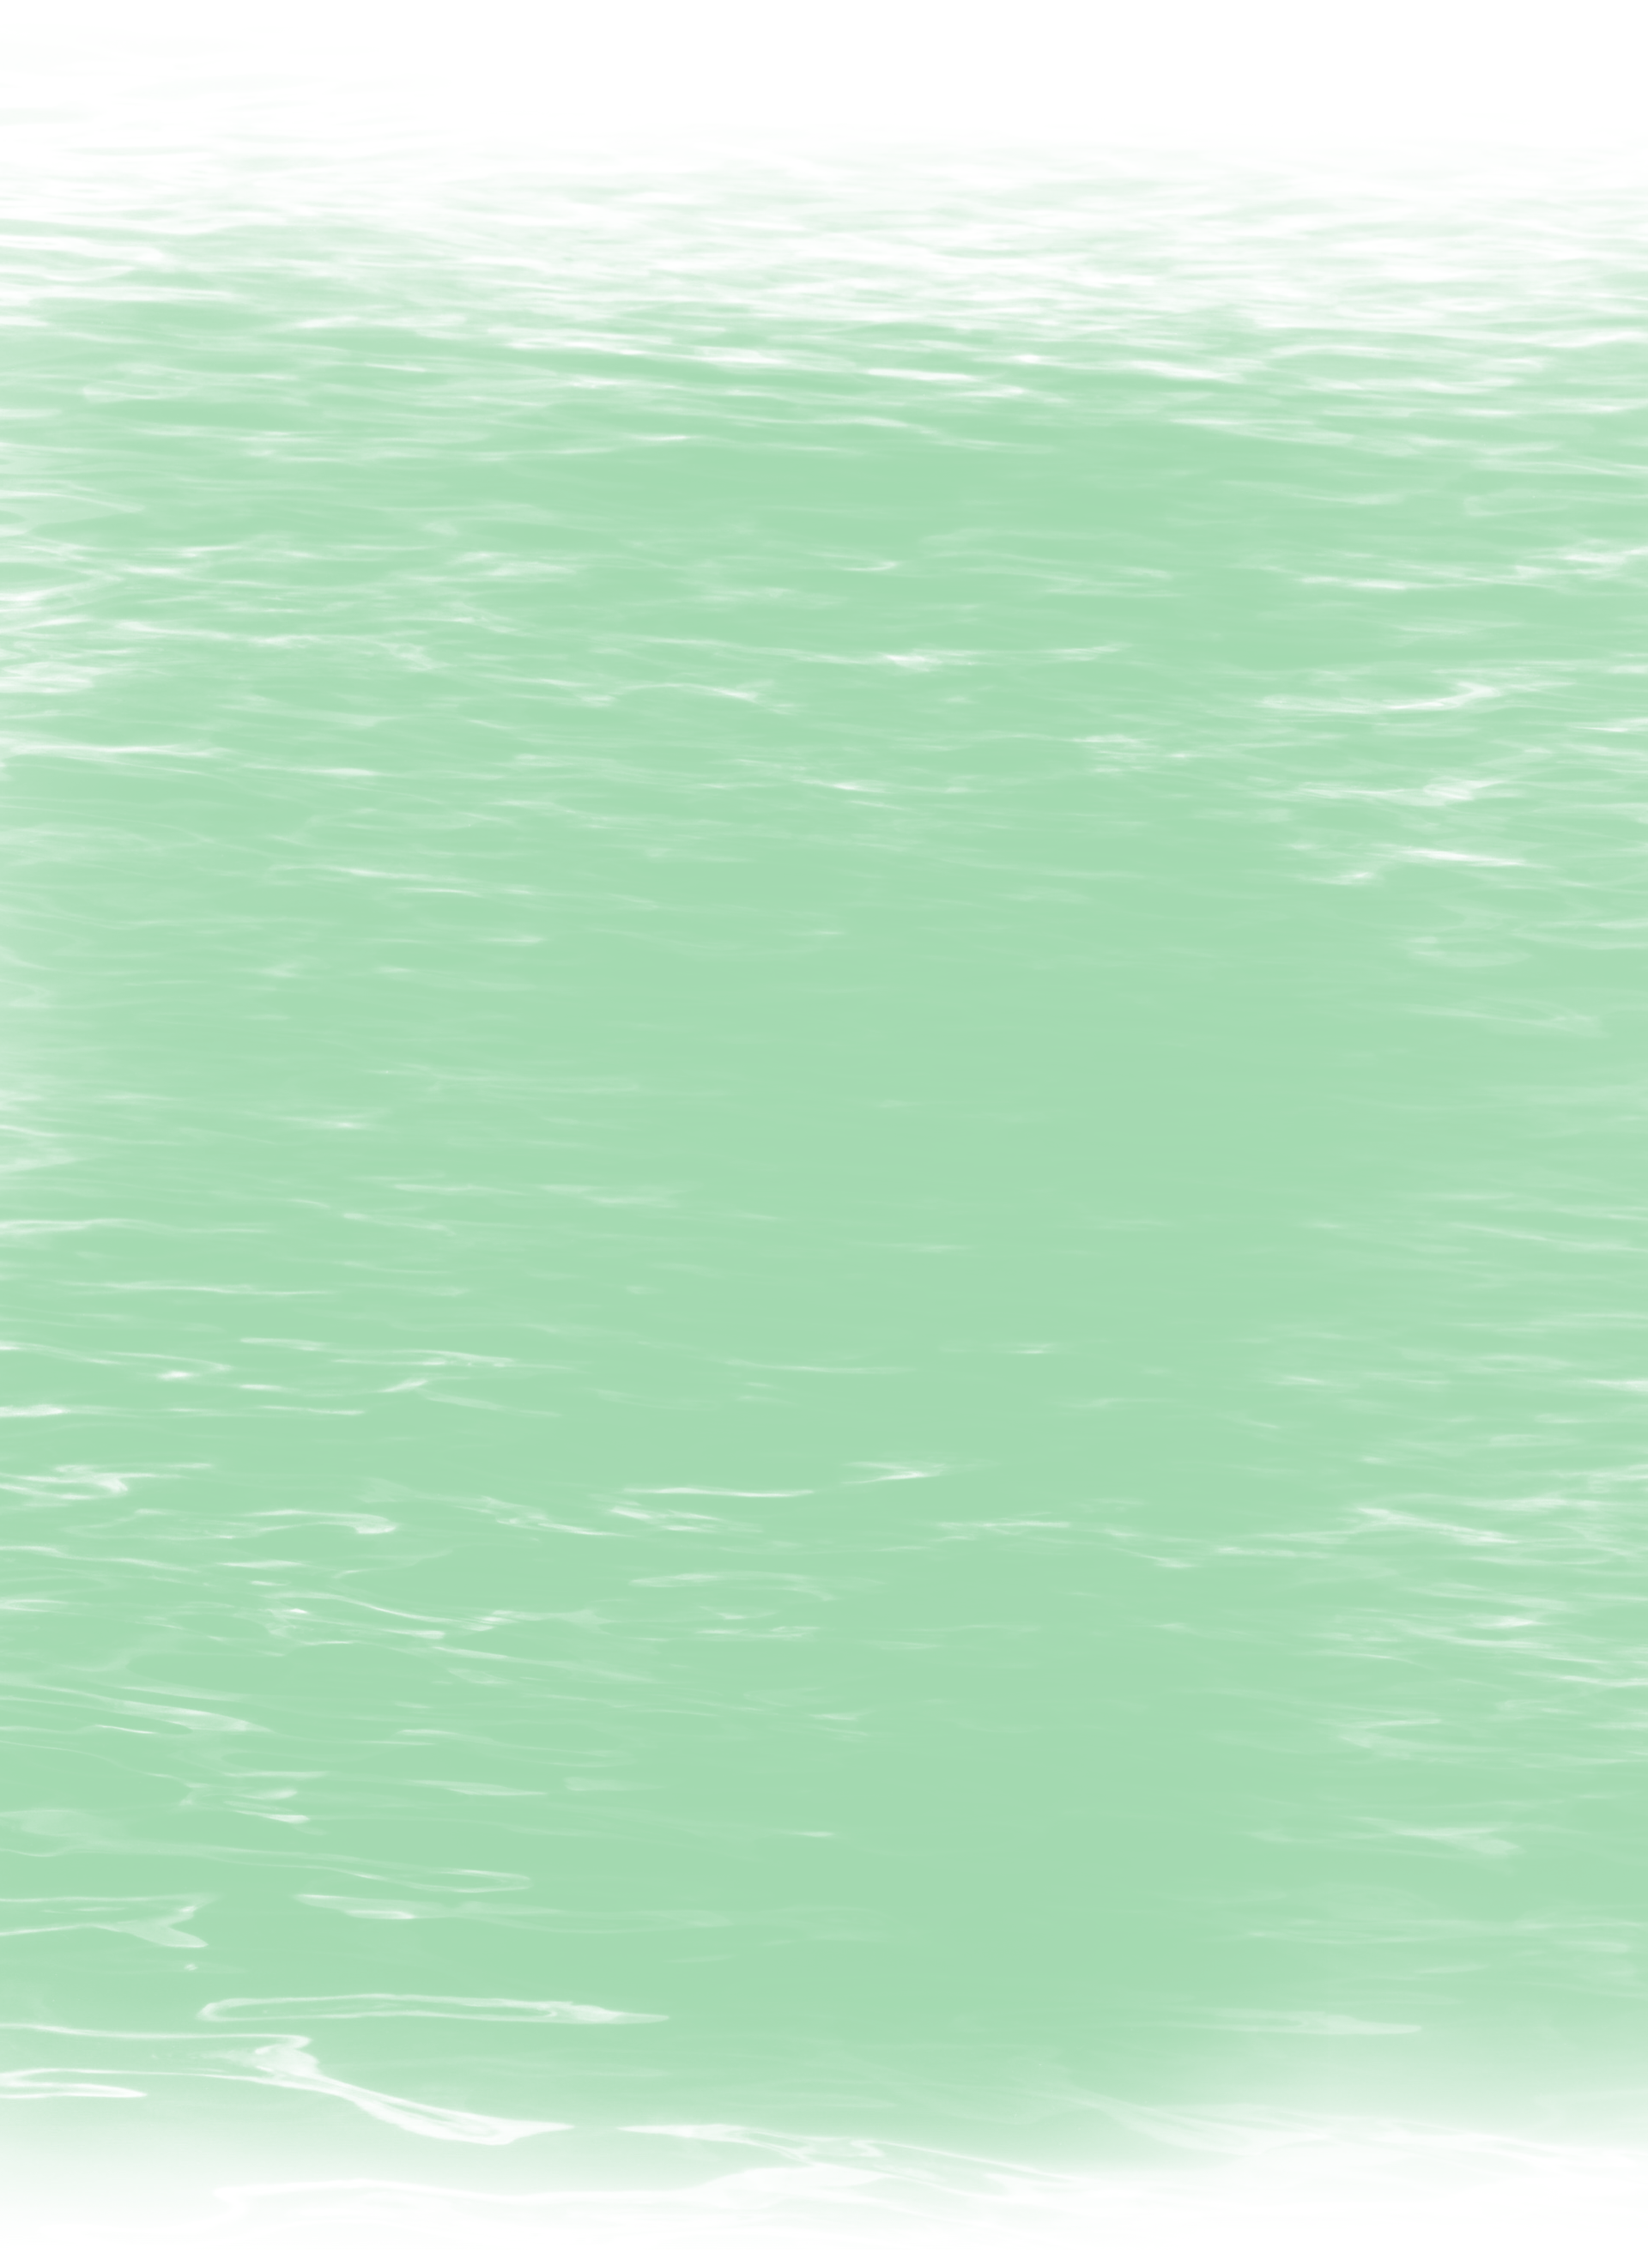
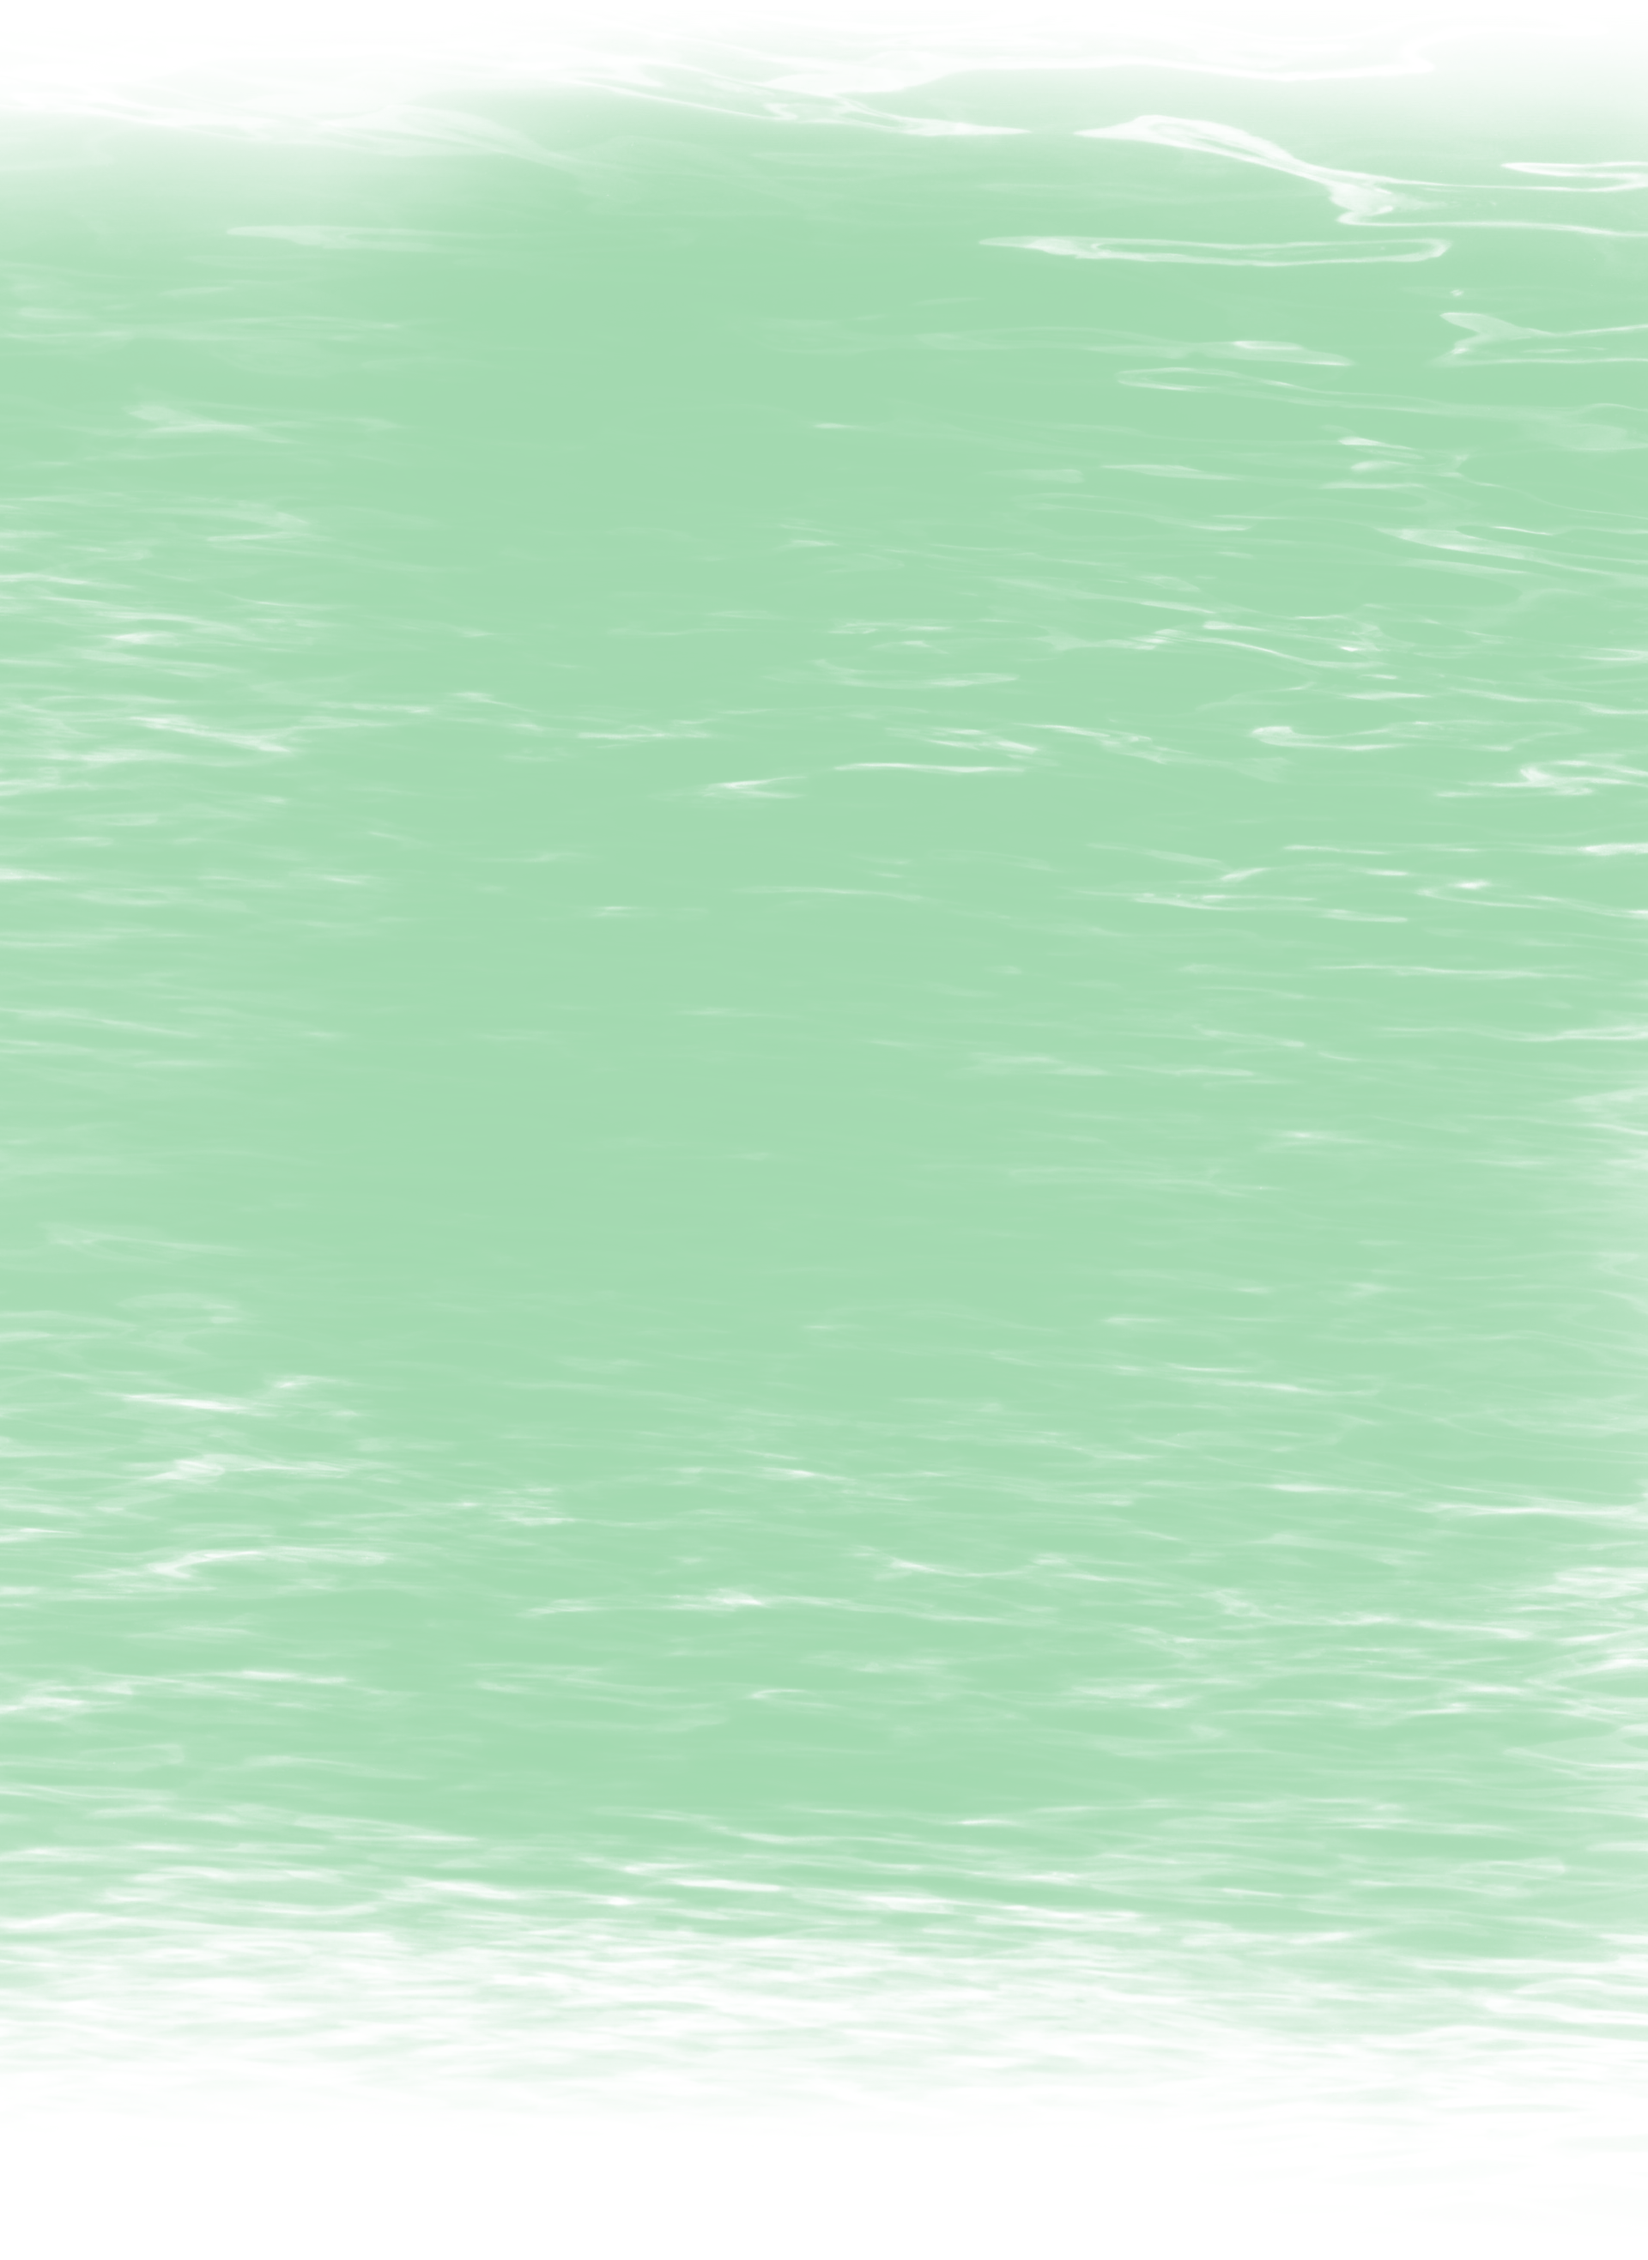
sunrah

diff --git a/Combo/examples/secondsite.html b/Combo/examples/secondsite.html
@@ -13,7 +13,8 @@
 	<link rel="stylesheet" type="text/css" href="../jquery.fullPage.css" />
 	<link rel="stylesheet" type="text/css" href="examples.css" />
 	<link rel="stylesheet" type="text/css" href="mystyle.css" />
-	<link rel='stylesheet' media='screen and (min-width: 201px) and (max-width: 640px)' href='small.css' />
+	<link rel="stylesheet" media="screen and (min-width: 201px) and (max-width: 640px)" href='small.css' />
+	<link rel="stylesheet" media="screen and (min-device-width: 201px) and (max-device-width: 640px)" href='small.css' />
 	<link rel="stylesheet" media="screen and (orientation: landscape) and (max-height: 400px) and (max-device-height: 400px) " href="horizon.css" />
 	<link rel="stylesheet" media="screen and (min-device-width:201px) and (max-device-width: 800px) and (orientation: landscape)" href="horizon.css" />
 	

diff --git a/Combo/examples/horizon.css b/Combo/examples/horizon.css
@@ -19,14 +19,6 @@ padding-top: 11em;
 display:inline;
 }
 
-#weare {
-font-family: 'Raleway', sans-serif;
-color: #bf4b31;
-width: 97%;
-margin-left: 1.5%;
-font-size:0.8em!important;
-margin-top: -14px;
-}
 
 
 div#icoline {
@@ -62,4 +54,27 @@ width: 25%;
 div#launchico {
 width: 25%;
 
+}
+
+h1.maintit {
+font-family: 'Geostar', cursive !important;
+font-size: 4em;
+color: #bf4b31;
+overflow: hidden;
+}
+
+.maindes {
+width: 44%;
+float: right;
+padding-right: 8%;
+padding-top: 0;
+}
+
+#weare {
+font-family: 'Raleway', sans-serif;
+color: #bf4b31;
+width: 97%;
+margin-left: 1.5%;
+font-size: 0.5em!important;
+margin-top: -14px;
 }

diff --git a/Combo/examples/mystyle.css b/Combo/examples/mystyle.css
@@ -157,13 +157,14 @@ background-size: contain;
 .watery {
 background-image: url('imgs/waterbottom.png');
 width: 100%;
-height: 56%;
+height: 83%;
 margin-top: 13%;
 }
 
 div#section6{
 background:#1d181f;
 background-image: url(imgs/waterbottom.png);
+background-position: bottom;
 
 }
 
